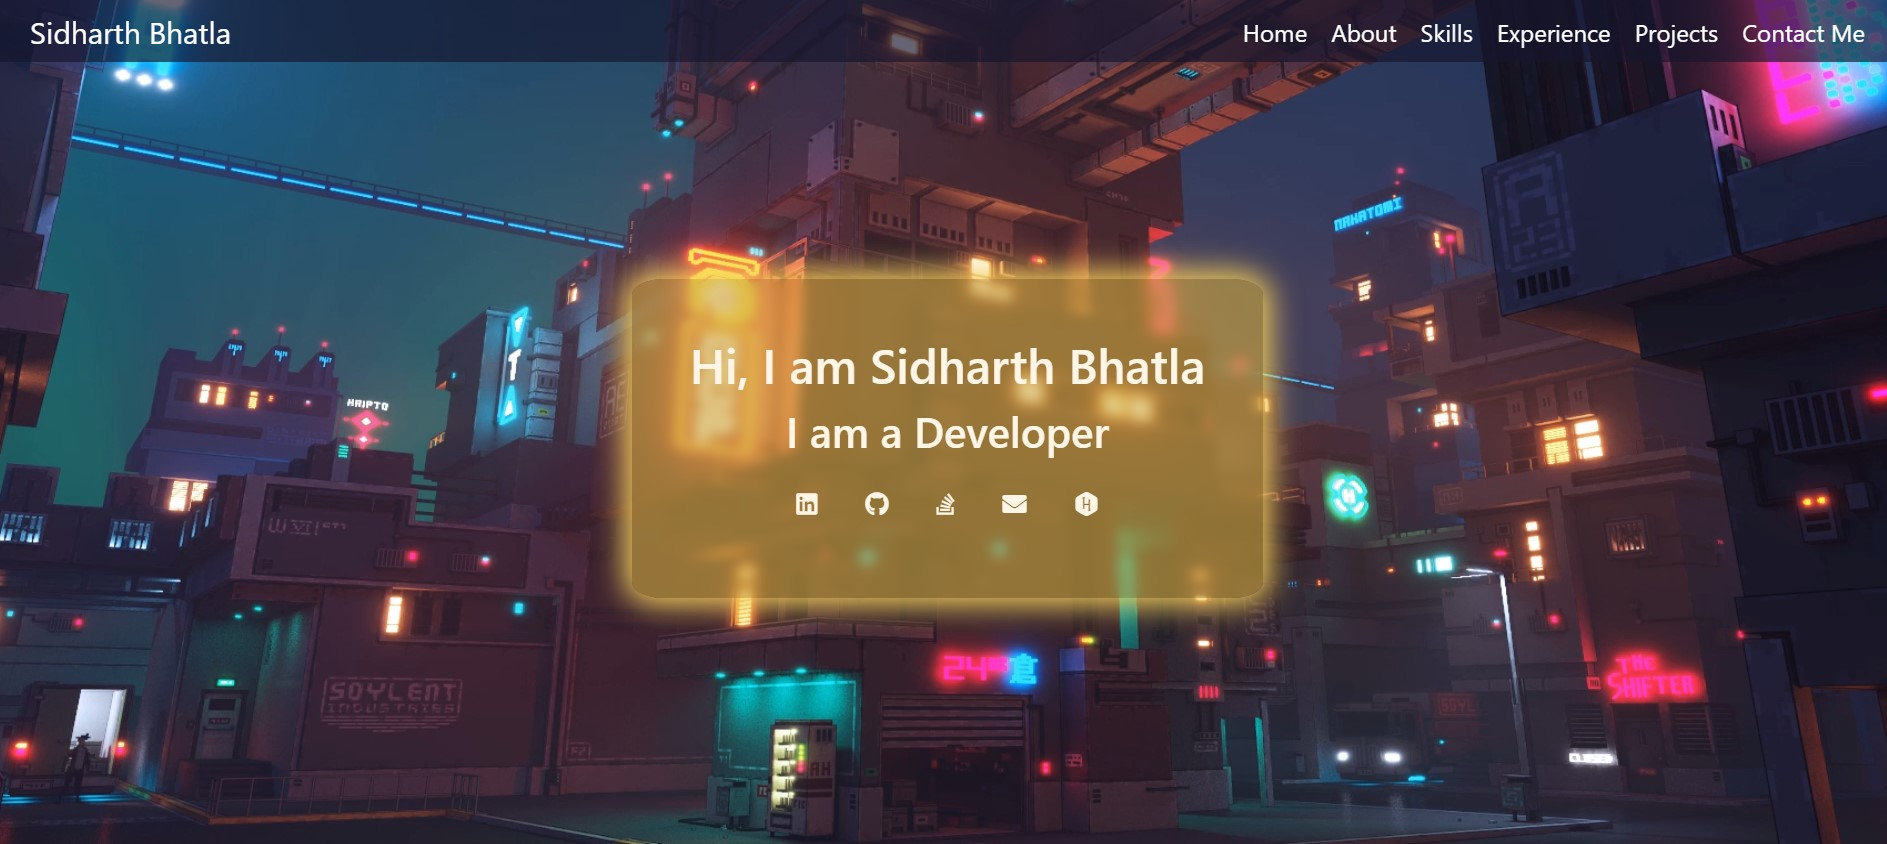
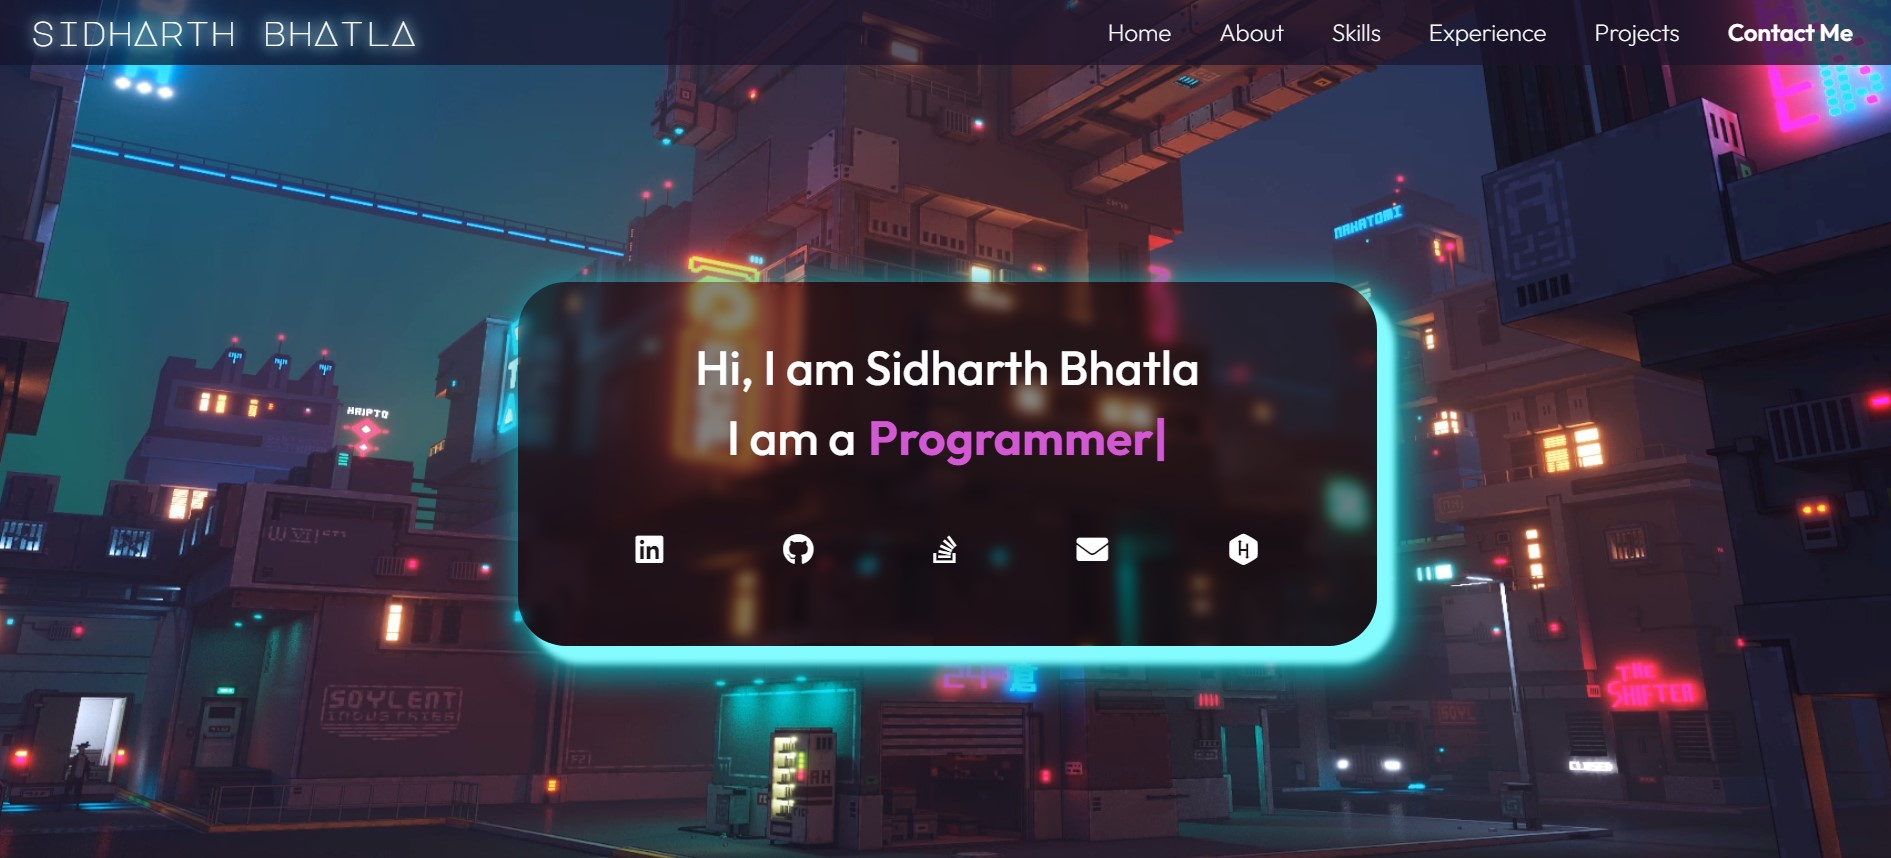
finally done

diff --git a/src/components/About.js b/src/components/About.js
@@ -1,36 +1,48 @@
 import myImg from "./myImg.png";
 import "./styles/About.css";
 import Aos from "aos";
-import "aos/dist/aos.css"
+import "aos/dist/aos.css";
 import { useEffect } from "react";
 
 function About() {
   useEffect(() => {
-    Aos.init({duration:2000})
-  }, [])
+    Aos.init({ duration: 2000 });
+  }, []);
 
   return (
     <div id="about" className="container-fluid">
       <h2 className="topic-head">About Me</h2>
       <div className="row">
-        <img data-aos="fade-right" data-aos-once="true" src={myImg} alt="I, in the flesh." className="col-lg-4 image" />
-        <div className="col-lg-8 d-flex justify-content-center flex-column summary" data-aos-once="true" data-aos="fade-up">
+        <img
+          data-aos="fade-right"
+          data-aos-once="true"
+          src={myImg}
+          alt="I, in the flesh."
+          className="col-lg-4 image"
+        />
+        <div
+          className="col-lg-8 d-flex justify-content-center flex-column summary"
+          data-aos-once="true"
+          data-aos="fade-up"
+        >
           <div className="d-flex justify-content-center flex-column">
             <div className="mb-2">
               Hey there, I'm Sidharth. I’ve always had a natural curiosity for
-              technology. As a child, I was fascinated with the hackers presented
-              in popular media and films. Because of that influence, I became
-              interested in exploring how computers work (and how to break them).
-              From these naive inspirations, I began exploring every domain of
-              technology I could find. This passion led me to the National
-              Institute of Technology, Delhi, where I am currently pursuing my
-              bachelor's degree in Computer Science and Engineering.
+              technology. As a child, I was fascinated with the hackers
+              presented in popular media and films. Because of that influence, I
+              became interested in exploring how computers work (and how to
+              break them). This passion led me to the NIT Delhi, where I am
+              currently pursuing my bachelor's degree in Computer Science and
+              Engineering.
             </div>
             <div className="mb-2">
-              I'm skilled at python, C, C++ and JavaScript and I am currently
-              exploring Web Development using the MERN stack and Machine
-              Learning using Python. When I’m not delving into technology, I’m
-              either reading books or playing the piano.{" "}
+              I'm skilled at{" "}
+              <span className="embolden">Python, C, C++ </span>and <span className="embolden">JavaScript</span>{" "}
+              and I am currently exploring Web Development using the{" "}
+              <span className="embolden">MERN stack</span> and{" "}
+              <span className="embolden">Machine Learning with Python</span>.
+              When I’m not delving into technology, I’m either reading books or
+              playing the keys.{" "}
             </div>
           </div>
           <a

diff --git a/src/components/Projects.js b/src/components/Projects.js
@@ -27,7 +27,7 @@ function Projects() {
   return (
     <div id="projects" className="container-fluid">
       <h2 className="topic-head">Projects</h2>
-      <div className="d-flex mb-3">
+      <div className="d-flex mb-3 ms-2">
         <div className="p-1 sorters  nav-effect" onClick={display_all}>
           All
         </div>
@@ -71,7 +71,7 @@ function Projects() {
             <div className="card-info">
               <h3>Chess Mini Game</h3>
               <p>
-                A Chess Mini Game entirely created in the C language.
+                A Chess Mini Game created using only the C language.
               </p>
               <a href="https://github.com/s-bhatla/Chess-Mini-Game" class="btn">
                 Go to Project
@@ -89,7 +89,7 @@ function Projects() {
             <div className="card-info">
               <h3>Chromavision</h3>
               <p>
-                A cross platform application created to test for color-blindness
+                A cross platform application created to test for color-blindness.
               </p>
               <a href="https://github.com/s-bhatla/ChromaVision" class="btn">
                 Go to Project
@@ -105,7 +105,7 @@ function Projects() {
               height="200vh"
             />
             <div className="card-info">
-              <h3>SwiftPharma</h3>
+              <h3>Swift Pharma</h3>
               <p>
                 A functioning full-stack e-commerce website created using ExpressJS.
               </p>
@@ -125,7 +125,7 @@ function Projects() {
             <div className="card-info">
               <h3>Portfolio Website</h3>
               <p>
-                The portfolio website you are looking at right now!
+                The portfolio website you are staring at right now!
               </p>
               <a href="/" class="btn">
                 Go to Project

diff --git a/src/components/styles/Landing.css b/src/components/styles/Landing.css
@@ -19,20 +19,21 @@
   top: 25vh;
   margin: 0 auto;
   color: #fff;
-  background-color: #8a72309c;
+  /* background-color: #8a72309c; */
   /* background-color: rgba(66, 53, 73, 0.37); */
-  /* background-color: rgba(0, 0, 0, 0.233); */
-  box-shadow: 0px 0px 20px 5px var(--yellow1);
+  background-color: rgba(0, 0, 0, 0.473);
+  /* box-shadow: 0px 0px 20px 5px var(--yellow1); */
   width: fit-content;
   display: flex;
   padding: 3vw;
   justify-content: center;
   flex-direction: column;
-  border-radius: 5% 5% 5% 5%;
+  border-radius: 32px;
   backdrop-filter: blur(4px);
   transition: all 4s ease-in-out 4s;
-  box-shadow:0px 0px 20px 5px rgb(255, 245, 158),
-  0px 0px 40px 15px var(--yellow1);
+
+  box-shadow: 10px 10px 4px 2px #84fbff,
+  10px 10px 24px 8px #03b7c0;
 }
 
 .mycontent i {
@@ -43,7 +44,7 @@
   transition: all 4s ease-in-out 4s;
   text-shadow:
       0 0 1px #fff,
-      0 0 8px rgb(255, 251, 0);
+      0 0 4px #dea3df;
   animation: flicker2 1.5s infinite alternate;
   
 }
@@ -52,14 +53,14 @@
     
   100%{
     text-shadow:
-      0 0 3px #fff,
-      0 0 6px rgb(255, 251, 0);
+      0 0 2px rgb(71, 17, 71),
+      0 0 4px #df21e2;
   }
   
   0% {        
       text-shadow:
-      0 0 1px #fff,
-      0 0 4px rgb(255, 251, 0);
+      0 0 1px rgb(71, 17, 71),
+      0 0 2px #df21e2;
   }    
 }
 
@@ -77,9 +78,10 @@
 }
 
 .landing-icons i:hover{
-  color: var(--yellow1);
+  color: #03b7c0;
 }
 
 .my-roles{
   font-weight: 700;
+  color: #d258d4;
 }

diff --git a/src/components/Landing.js b/src/components/Landing.js
@@ -47,19 +47,19 @@ function Landing() {
           </h2>
         </div>
         <div class="d-flex justify-content-center landing-icons">
-          <a href="https://www.linkedin.com/in/sidharth-bhatla-811154202/">
+          <a target="_blank" rel="noopener noreferrer" href="https://www.linkedin.com/in/sidharth-bhatla-811154202/">
             <i class="fab fa-linkedin p-3"></i>
           </a>
-          <a href="https://github.com/s-bhatla">
+          <a target="_blank" rel="noopener noreferrer" href="https://github.com/s-bhatla">
             <i class="fab fa-github p-3"></i>
           </a>
-          <a href="https://stackoverflow.com/users/14859624/sidharth-bhatla">
+          <a target="_blank" rel="noopener noreferrer" href="https://stackoverflow.com/users/14859624/sidharth-bhatla">
             <i class="fab fa-stack-overflow p-3"></i>
           </a>
-          <a href="mailto:sidroot02@gmail.com">
+          <a target="_blank" rel="noopener noreferrer" href="mailto:sidroot02@gmail.com">
             <i class="fas fa-envelope p-3"></i>
           </a>
-          <a href="https://www.hackerrank.com/sidroot02">
+          <a target="_blank" rel="noopener noreferrer" href="https://www.hackerrank.com/sidroot02">
             <i class="fab fa-hackerrank p-3"></i>
           </a>
         </div>

diff --git a/src/components/Footer.js b/src/components/Footer.js
@@ -8,19 +8,19 @@ function Footer() {
           <h3>sidhArth bhAtlA</h3>
         </div>
         <div>
-          <a href="https://www.linkedin.com/in/sidharth-bhatla-811154202/">
+          <a target="_blank" rel="noopener noreferrer" href="https://www.linkedin.com/in/sidharth-bhatla-811154202/">
             <i class="fab fa-linkedin p-3"></i>
           </a>
-          <a href="https://github.com/s-bhatla">
+          <a target="_blank" rel="noopener noreferrer" href="https://github.com/s-bhatla">
             <i class="fab fa-github p-3"></i>
           </a>
-          <a href="https://stackoverflow.com/users/14859624/sidharth-bhatla">
+          <a target="_blank" rel="noopener noreferrer" href="https://stackoverflow.com/users/14859624/sidharth-bhatla">
             <i class="fab fa-stack-overflow p-3"></i>
           </a>
-          <a href="mailto:sidroot02@gmail.com">
+          <a target="_blank" rel="noopener noreferrer" href="mailto:sidroot02@gmail.com">
             <i class="fas fa-envelope p-3"></i>
           </a>
-          <a href="https://www.hackerrank.com/sidroot02">
+          <a target="_blank" rel="noopener noreferrer" href="https://www.hackerrank.com/sidroot02">
             <i class="fab fa-hackerrank p-3"></i>
           </a>
         </div>

diff --git a/public/index.html b/public/index.html
@@ -10,8 +10,9 @@
     <link rel="preconnect" href="https://fonts.googleapis.com">
     <link rel="preconnect" href="https://fonts.googleapis.com">
     <link rel="preconnect" href="https://fonts.googleapis.com">
+    <link rel="preconnect" href="https://fonts.googleapis.com">
 <link rel="preconnect" href="https://fonts.gstatic.com" crossorigin>
-<link href="https://fonts.googleapis.com/css2?family=Audiowide&family=Major+Mono+Display&family=Montserrat:ital,wght@0,100;0,200;0,300;0,400;0,500;0,600;0,700;0,800;0,900;1,100;1,200;1,300;1,400;1,500;1,600;1,700;1,800;1,900&family=Ubuntu+Mono:ital,wght@0,400;0,700;1,400;1,700&family=Ubuntu:ital,wght@0,300;0,400;0,500;0,700;1,300;1,400;1,500;1,700&display=swap" rel="stylesheet">
+<link href="https://fonts.googleapis.com/css2?family=Major+Mono+Display&family=Montserrat:ital,wght@0,100;0,200;0,300;0,400;0,500;0,600;0,700;0,800;0,900;1,100;1,200;1,300;1,400;1,500;1,600;1,700;1,800;1,900&family=Outfit:wght@100;200;300;400;500;600;700;800;900&family=Ubuntu+Mono:ital,wght@0,400;0,700;1,400;1,700&family=Ubuntu:ital,wght@0,300;0,400;0,500;0,700;1,300;1,400;1,500;1,700&display=swap" rel="stylesheet">
     <meta
       name="description"
       content="Portfolio Webpage for Sidharth Bhatla"

diff --git a/src/components/Experience.js b/src/components/Experience.js
@@ -59,7 +59,7 @@ function Experience() {
           <h3 className="vertical-timeline-element-title">Volunteer</h3>
           <h4 className="vertical-timeline-element-subtitle">NIT-Delhi Technical Club, Upvision</h4>
           <p>
-            Worked to help organize various multiple tournaments for the college community
+            Worked to help organize various multiple tournaments for the college community.
           </p>
         </VerticalTimelineElement>
         <VerticalTimelineElement
@@ -74,7 +74,7 @@ function Experience() {
           <h3 className="vertical-timeline-element-title">Executive Member</h3>
           <h4 className="vertical-timeline-element-subtitle">Google Developer Student Club</h4>
           <p>
-            Worked to organize various seminars and events which were attended by over 150 students
+            Worked to organize various seminars and events which were attended by over 150 students.
           </p>
         </VerticalTimelineElement>
       </VerticalTimeline>

diff --git a/src/components/Navbar.js b/src/components/Navbar.js
@@ -34,7 +34,7 @@ function Navbar() {
             <li class="nav-item"><a class="nav-link active nav-effect" aria-current="page" href="#skills">Skills</a></li>
             <li class="nav-item"><a class="nav-link active nav-effect" aria-current="page" href="#experience">Experience</a></li>
             <li class="nav-item"><a class="nav-link active nav-effect" aria-current="page" href="#projects">Projects</a></li>
-            <li class="nav-item"><a class="nav-link active nav-effect" aria-current="page" href="#contact">Contact Me</a></li>
+            <li class="nav-item"><a class="nav-link active nav-effect contact-nav" aria-current="page" href="#contact">Contact Me</a></li>
           </ul>
         </div>
         <button class="navbar-toggler ms-auto" type="button" data-bs-toggle="collapse" data-bs-target="#navbarSupportedContent" aria-controls="navbarSupportedContent" aria-expanded="false" aria-label="Toggle navigation">

diff --git a/src/components/styles/Projects.css b/src/components/styles/Projects.css
@@ -48,11 +48,11 @@
     left: 0;
     width: 100%;
     height:110%;
-    background: linear-gradient(to bottom,rgba(123, 96, 219, 0.432), rgba(28, 12, 53, 0.897));
+    background: linear-gradient(to bottom,rgba(96, 174, 219, 0.432), rgba(13, 6, 26, 0.897));
     z-index: 2;
     transition: 0.5s;
-    opacity:0;
-    border-radius: 5%;
+    opacity:1;
+    border-radius: 16px;
 }
 
 .mycard:hover:before{
@@ -64,13 +64,13 @@
     object-fit: fill;
     position: absolute;
     align-items: center;
-    border-radius: 5%;
+    border-radius: 16px;
 }
 
 .mycard .card-info{
     position: relative;
     z-index: 3;
-    opacity: 0;
+    opacity: 1;
     color: #fff;
     text-align: center;
     top:2.5rem;

diff --git a/src/components/styles/Contact.css b/src/components/styles/Contact.css
@@ -15,13 +15,13 @@
 .mail-img {
   margin-top: 1.5rem;
   margin-bottom: 1.5rem;
-  width: 25vw;
+  width: 20vw;
   height: fit-content;
   margin-left: 2rem;
-  border-radius: 5%;
-  border: 1px solid #ff6976;
-  padding: 1.5rem 0 1.5rem 0;
-  box-shadow: 0 0 10px 5px #ff6976, inset 0 0 4px 2px #ff6976;
+  border-radius: 16px;
+  border: 1px solid #55B8E1;
+  padding: 1.5rem 1.5rem 1.5rem 1.5rem;
+  box-shadow: 0 0 20px 0px #55B8E1, inset 0 0 20px 0px #55B8E1;
 }
 
 .contact-button {

diff --git a/src/components/Contact.js b/src/components/Contact.js
@@ -20,7 +20,7 @@ function Contact() {
           platforms provided. I'm always interested in new and exciting
           oppurtunities so don't hesitate to get in touch. I'll be waiting for
           you!
-          <div className="d-flex justify-content-center">
+          <div className="d-flex justify-content-center mt-3">
             <a href="mailto:sidroot02@gmail.com" className="cool-btn contact-button">
               <span></span>
               <span></span>

diff --git a/src/components/styles/footer.css b/src/components/styles/footer.css
@@ -1,7 +1,7 @@
 .footer{
     text-align: center;
     padding-bottom: 1rem;
-    background-color: #1a162e;
+    background-color: #000000;
     padding-top: 1rem;
     border-top: 1px solid #31217c;
     margin-top: 1rem;
@@ -11,10 +11,11 @@
     margin: 1rem 1rem 2rem 1rem;
     color: rgb(189, 189, 189);
     transition: ease-in-out 0.5s;
+    font-size: 1.25rem;
 }
 
 .footer i:hover{
-    color: var(--lightblue)
+    color: var(--lightblue);
 }
 
 .footer h3{
